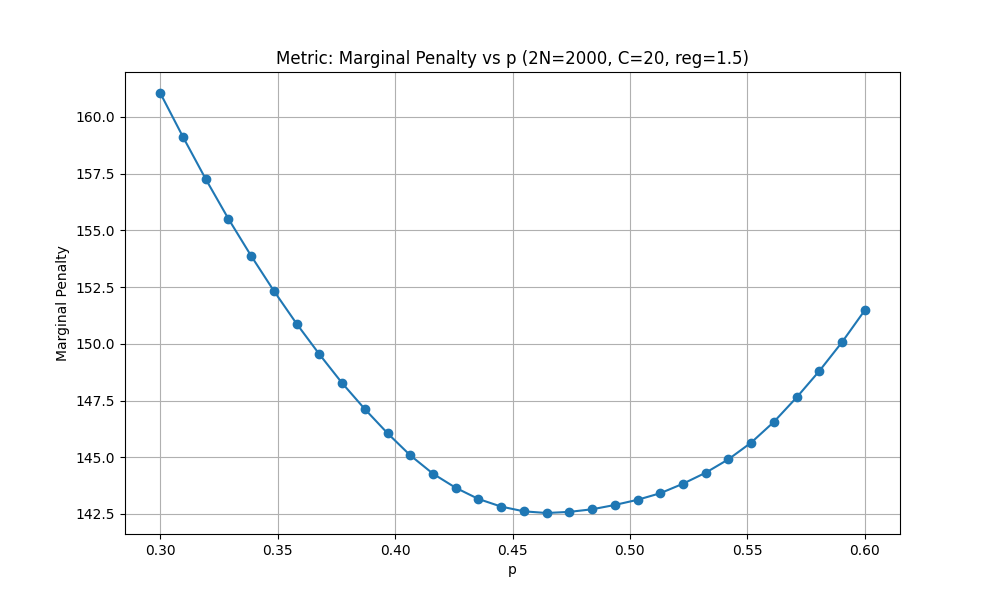
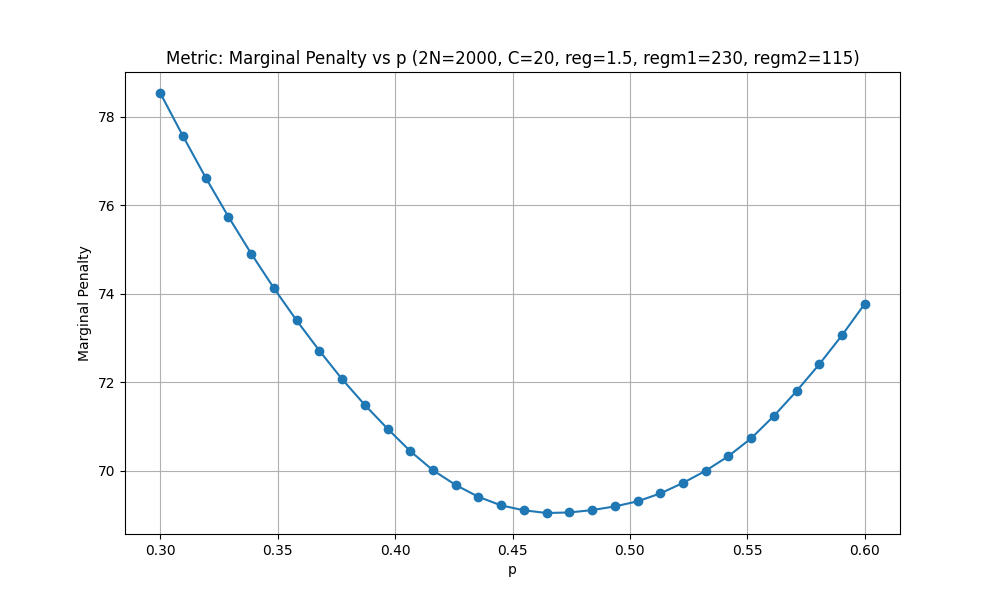
regms fix

diff --git a/SimpleDecent/p_curves.py b/SimpleDecent/p_curves.py
@@ -5,8 +5,8 @@ from tqdm import tqdm
 from concurrent.futures import ProcessPoolExecutor, as_completed
 import multiprocessing
 
-# METHOD = "mirror_descent"
-METHOD = "lbfgsb"
+METHOD = "mirror_descent"
+# METHOD = "lbfgsb"
 
 def construct_data(N, C, p):
     spectra, mix = load_data()
@@ -32,11 +32,11 @@ def construct_data(N, C, p):
     return a, b, c, M
 
 # Parameters
-regm1 = 115
-regm2 = 230
+regm1 = 230
+regm2 = 115
 reg = 1.5
-N = 200
-C = 15
+N = 1000
+C = 20
 max_iter = 1000
 p_values = np.linspace(0.3, 0.6, 32)
 

diff --git a/SimpleDecent/marginals.py b/SimpleDecent/marginals.py
@@ -30,8 +30,8 @@ def construct_data(N, C):
     return v1, v2, a, b, c, M, G0
 
 # Parameters
-regm1 = 115
-regm2 = 230
+regm1 = 230
+regm2 = 115
 reg = 1.5
 N = 1000
 C = 20
